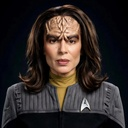
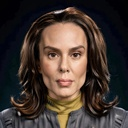
v000.6.050: B'Elanna Torres forehead ridges removed — smooth human forehead (Jason: remove her ridges all together)

diff --git a/index.html b/index.html
@@ -984,7 +984,7 @@ label{font-size:13px;color:var(--dim);letter-spacing:1px;text-transform:uppercas
    chokepoints: portraitSrc, crewPoolUrls, crewPortraitFor, shipPic,
    compArtFor, stationPic, stationMapIcon, shuttlePic. Idempotent: a URL
    already carrying the current bust marker is returned untouched. ---- */
-const ART_BUST='v000.6.049';
+const ART_BUST='v000.6.050';
 function bustUrl(u){if(!u||u.indexOf('data:')===0||u.indexOf('v='+ART_BUST)>=0)return u;return u+(u.indexOf('?')>=0?'&':'?')+'v='+ART_BUST;}
 function $(id){return document.getElementById(id);}
 function rnd(a,b){return a+Math.random()*(b-a);}
@@ -16860,7 +16860,7 @@ window.onload=function(){
 <aside id="menuDrawer">
   <div id="drawerHead"><h2>Menu</h2><button id="drawerClose" onclick="closeTabMenu()" aria-label="Close menu">&times;</button></div>
   <div id="menuList"></div>
-  <div style="text-align:center;color:#5a6b7d;font-size:11px;padding:14px 0 8px;opacity:.7;">v000.6.049 — The Stylized Fleet</div>
+  <div style="text-align:center;color:#5a6b7d;font-size:11px;padding:14px 0 8px;opacity:.7;">v000.6.050 — The Stylized Fleet</div>
   <div style="text-align:center;color:#5a6b7d;font-size:11px;padding:0 0 10px;opacity:.7;">Ship &amp; shuttlecraft profile artwork: <a href="https://www.ex-astris-scientia.org/fleet-charts.htm" target="_blank" style="color:#7d92ad;text-decoration:none;">Ex Astris Scientia</a></div>
 </aside>
 <script>if("serviceWorker" in navigator){navigator.serviceWorker.register("sw.js").then(function(r){r.addEventListener("updatefound",function(){var w=r.installing;w.addEventListener("statechange",function(){if(w.state==="activated"&&navigator.serviceWorker.controller){try{showUpdateBanner();}catch(e){}}});});});}</script>

diff --git a/sw.js b/sw.js
@@ -1,4 +1,4 @@
-const C = 'stfc-v000.6.049';
+const C = 'stfc-v000.6.050';
 self.addEventListener('install', e => {
   e.waitUntil(caches.open(C).then(c => c.addAll(['./', 'index.html', 'manifest.json'])).then(() => self.skipWaiting()));
 });
